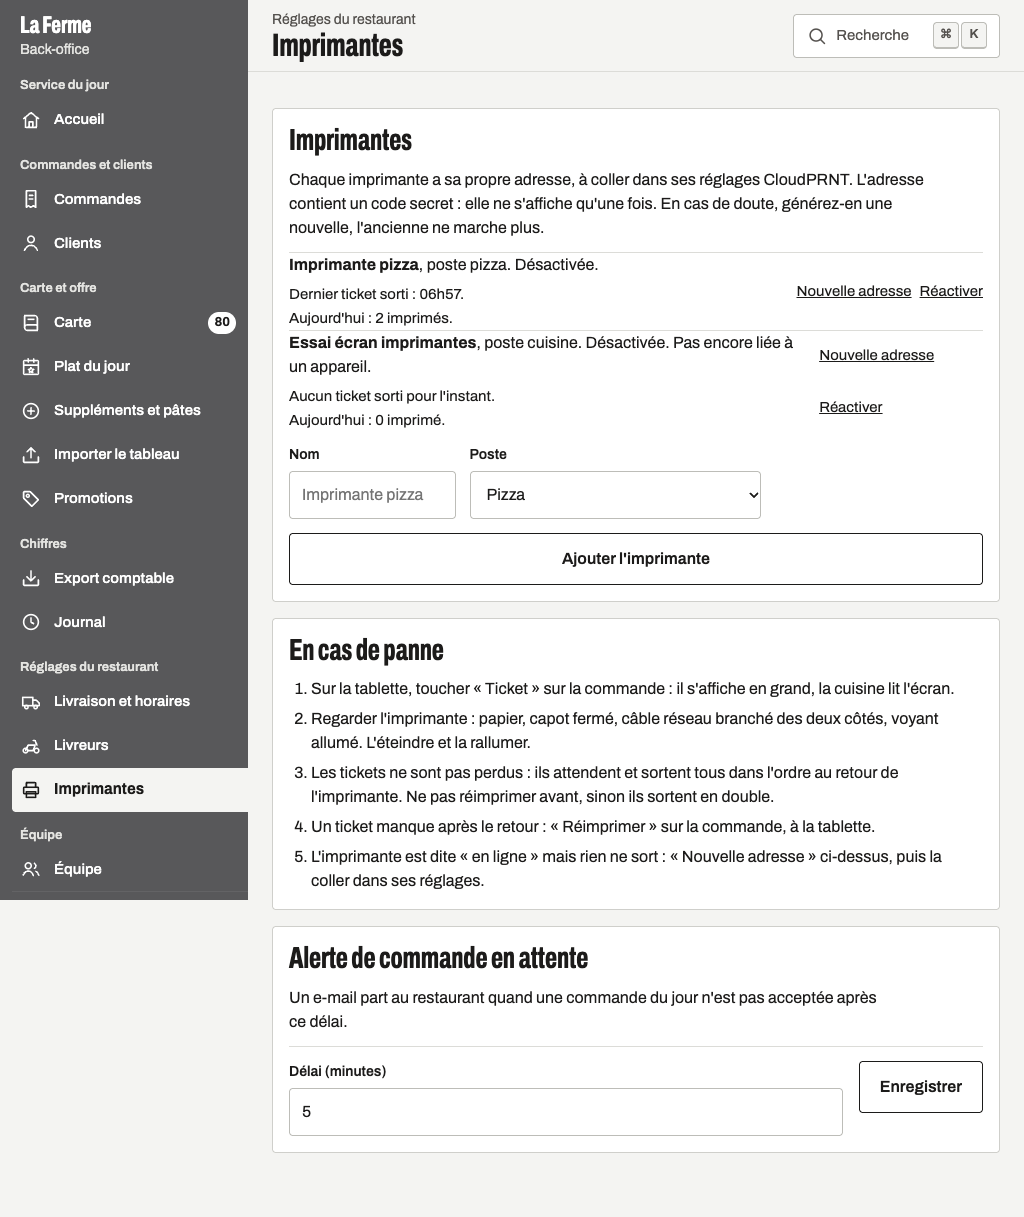
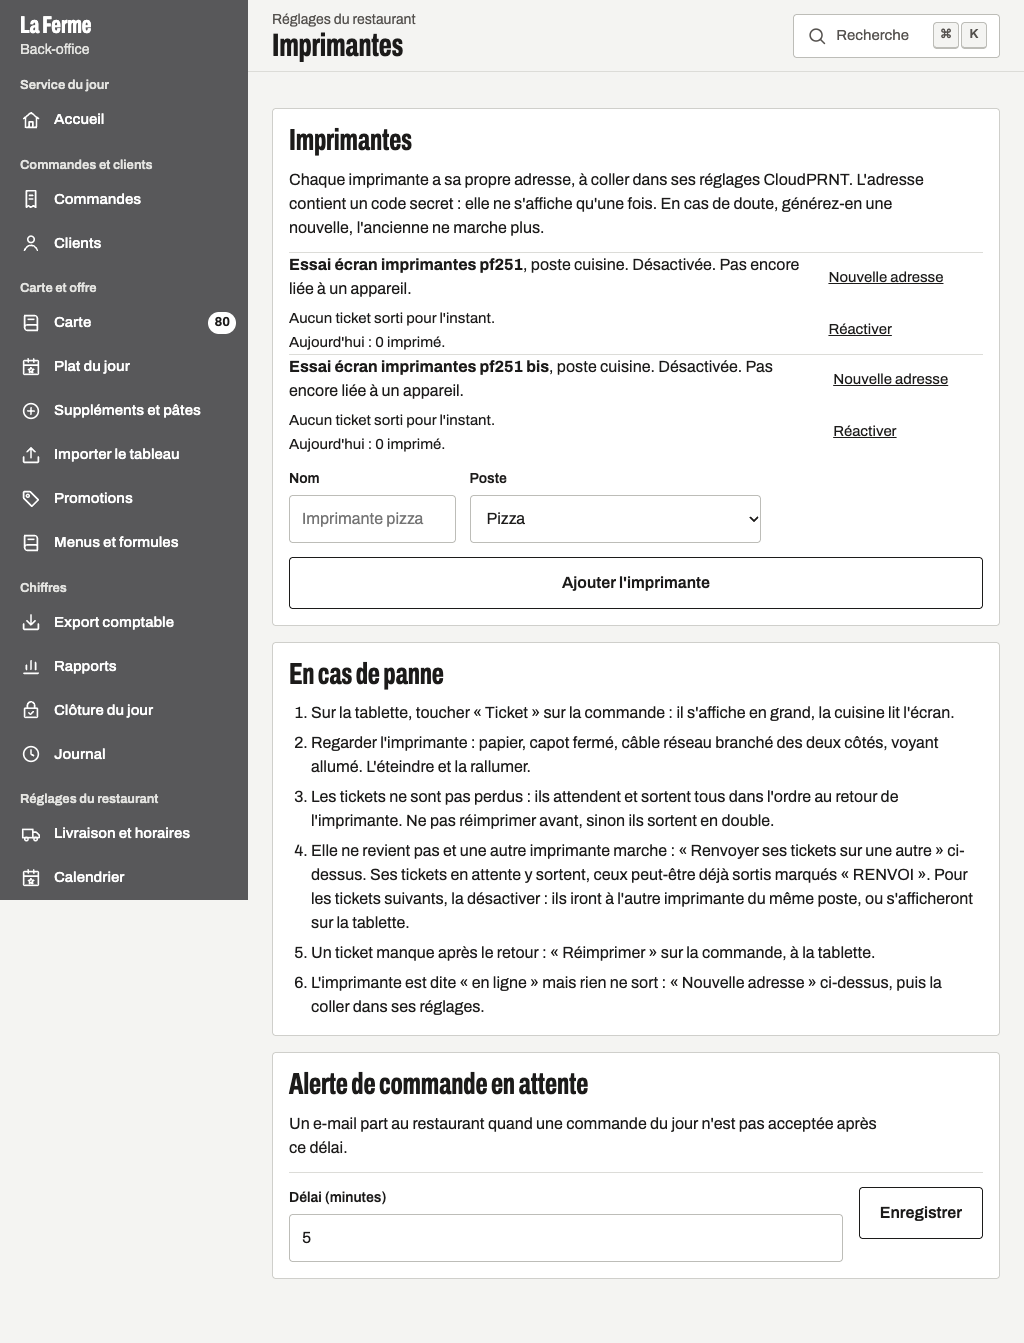
Imprimantes : renvoyer les tickets d'une imprimante en panne sur une autre
Ses tickets en attente, envoyés sans confirmation (marqués RENVOI) ou en échec,
pour les commandes encore à préparer, partent sur l'imprimante choisie. Jamais
les tickets de test. Gérant, journalisé. « En cas de panne » dit quoi faire
pour les tickets suivants.

diff --git a/tests/unit/renvoyer-tickets-sql.test.ts b/tests/unit/renvoyer-tickets-sql.test.ts
@@ -1,0 +1,103 @@
+import type { PGlite } from "@electric-sql/pglite";
+import { beforeAll, beforeEach, describe, expect, it } from "vitest";
+import { creerBaseLocale } from "@/lib/db/locale";
+
+// Renvoyer les tickets d'une imprimante en panne sur une autre (vague 3, bo-operations) :
+// renvoyer_tickets, migration 20261130250000_renvoyer_tickets.sql.
+
+let db: PGlite;
+let pizza: number;
+let cuisine: number;
+let eteinte: number;
+let gerant: string;
+let service: string;
+let n = 0;
+
+async function commande(statut: string): Promise<string> {
+  n += 1;
+  const p = {
+    jeton_suivi: `jeton-rt-${n}`,
+    cle_idempotence: `rt-${n}`,
+    mode: "retrait",
+    statut: "nouvelle",
+    statut_paiement: "a_encaisser_retrait",
+    moyen_paiement: "comptoir",
+    zone_numero: null,
+    client_prenom: `Rt${n}`,
+    client_nom: "Test",
+    client_telephone: "079 000 00 00",
+    client_email: "rt@laferme.test",
+    quand_type: "asap",
+    pizzas_seulement: true,
+    sous_total_centimes: 1500,
+    frais_centimes: 0,
+    total_centimes: 1500,
+    tva_centimes: 38,
+    taux_tva_pourcent: 2.6,
+    origine: "http://localhost:3000",
+    lignes: [{ slug: "pizza-margherita", nom: "Pizza", station: "pizza", qte: 1, unitaire_centimes: 1500, total_centimes: 1500, choix: {}, retraits: [], note: "" }],
+  };
+  const id = (await db.query<{ id: string }>("select id from creer_commande($1)", [p])).rows[0].id;
+  await db.query("update commandes set statut = $2 where id = $1", [id, statut]);
+  return id;
+}
+async function tache(commandeId: string | null, etat: string, essai = false): Promise<string> {
+  const r = await db.query<{ id: string }>(
+    "insert into taches_impression (commande_id, essai, station, imprimante_id, contenu, etat) values ($1, $2, 'pizza', $3, '[]', $4) returning id",
+    [commandeId, essai, pizza, etat],
+  );
+  return r.rows[0].id;
+}
+const ou = async (id: string) =>
+  (await db.query<{ imprimante_id: number; etat: string; relance: boolean }>("select imprimante_id, etat, relance from taches_impression where id = $1", [id])).rows[0];
+const renvoyer = async (de: number, vers: number, qui = gerant) =>
+  (await db.query<{ n: number }>("select renvoyer_tickets($1::smallint, $2::smallint, $3) as n", [de, vers, qui])).rows[0].n;
+
+beforeAll(async () => {
+  db = await creerBaseLocale();
+  pizza = (await db.query<{ id: number }>("insert into imprimantes (nom, station, jeton_hache) values ('Pizza rt', 'pizza', 'h-rt-p') returning id")).rows[0].id;
+  cuisine = (await db.query<{ id: number }>("insert into imprimantes (nom, station, jeton_hache) values ('Cuisine rt', 'cuisine', 'h-rt-c') returning id")).rows[0].id;
+  eteinte = (await db.query<{ id: number }>("insert into imprimantes (nom, station, jeton_hache, actif) values ('Éteinte rt', 'cuisine', 'h-rt-e', false) returning id")).rows[0].id;
+  gerant = (await db.query<{ id: string }>("insert into personnel (email, nom, role) values ('rt-gerant@laferme.test', 'Rt gérant', 'gerant') returning id")).rows[0].id;
+  service = (await db.query<{ id: string }>("insert into personnel (email, nom, role) values ('rt-service@laferme.test', 'Rt service', 'service') returning id")).rows[0].id;
+}, 120_000);
+
+beforeEach(async () => {
+  await db.exec("truncate commandes cascade; delete from taches_impression where true;");
+});
+
+describe("renvoyer_tickets", () => {
+  it("en attente, envoyé (marqué RENVOI) et en échec partent ; sorti, annulé, commande prête et essai restent", async () => {
+    const encours = await commande("acceptee");
+    const attente = await tache(encours, "en_attente");
+    const envoyee = await tache(encours, "envoyee");
+    const echec = await tache(encours, "echec");
+    const sortie = await tache(encours, "imprimee");
+    const annulee = await tache(encours, "annulee");
+    const pourPrete = await tache(await commande("prete"), "en_attente");
+    const essai = await tache(null, "en_attente", true);
+    expect(await renvoyer(pizza, cuisine)).toBe(3);
+    expect(await ou(attente)).toEqual({ imprimante_id: cuisine, etat: "en_attente", relance: false });
+    expect(await ou(envoyee)).toEqual({ imprimante_id: cuisine, etat: "en_attente", relance: true });
+    expect(await ou(echec)).toEqual({ imprimante_id: cuisine, etat: "en_attente", relance: false });
+    for (const id of [sortie, annulee, pourPrete, essai]) expect((await ou(id)).imprimante_id).toBe(pizza);
+    const j = await db.query<{ cle: string; apres: { tickets: number; nom: string } }>("select cle, apres from journal_gestion where objet = 'imprimante' order by id desc limit 1");
+    expect(j.rows[0]).toMatchObject({ cle: "renvoyer_tickets", apres: { tickets: 3, nom: "Cuisine rt" } });
+  });
+
+  it("refus : même imprimante, destination désactivée ou inconnue, pas gérant", async () => {
+    await tache(await commande("acceptee"), "en_attente");
+    await expect(renvoyer(pizza, pizza)).rejects.toThrow(/autre imprimante/);
+    await expect(renvoyer(pizza, eteinte)).rejects.toThrow(/désactivée/);
+    await expect(renvoyer(pizza, 999)).rejects.toThrow(/désactivée/);
+    await expect(renvoyer(999, cuisine)).rejects.toThrow(/inconnue/);
+    await expect(renvoyer(pizza, cuisine, service)).rejects.toThrow();
+  });
+
+  it("réservée au serveur", async () => {
+    for (const role of ["anon", "authenticated"]) {
+      const r = await db.query<{ ok: boolean }>("select has_function_privilege($1, 'renvoyer_tickets(smallint, smallint, uuid)', 'execute') as ok", [role]);
+      expect(r.rows[0].ok).toBe(false);
+    }
+  });
+});

diff --git a/src/components/gestion/GestionImprimantes.tsx b/src/components/gestion/GestionImprimantes.tsx
@@ -46,6 +46,25 @@ export function GestionImprimantes() {
   const [message, setMessage] = useState<string | null>(null);
   // Confirmation avant un geste qui arrête une imprimante (audit du gérant, G10).
   const [confirmer, setConfirmer] = useState<{ id: number; geste: "jeton" | "actif" } | null>(null);
+  // Imprimante en panne : ses tickets en attente partent sur une autre (vague 3, P1 de produit-gestion).
+  const [renvoi, setRenvoi] = useState<{ id: number; vers: string } | null>(null);
+
+  async function renvoyer(de: Imprimante) {
+    if (!renvoi || !d) return;
+    const vers = d.imprimantes.find((x) => String(x.id) === renvoi.vers);
+    if (!vers) return;
+    setMessage(null);
+    const r = await poster("/api/gestion/imprimantes", { type: "renvoyer", id: de.id, vers: vers.id });
+    if (!r.ok) return setMessage(String(r.donnees.erreur ?? "Pas enregistré."));
+    const n = Number(r.donnees.tickets ?? 0);
+    setRenvoi(null);
+    setMessage(
+      n === 0
+        ? `Aucun ticket à renvoyer : ${de.nom} n'avait rien en attente pour une commande en cours.`
+        : `${n} ticket${n > 1 ? "s" : ""} de ${de.nom} renvoyé${n > 1 ? "s" : ""} sur ${vers.nom}. Les prochains tickets vont encore à ${de.nom} tant qu'elle est active : désactivez-la s'il le faut.`,
+    );
+    await charger();
+  }
 
   const charger = useCallback(async () => {
     const rep = await fetch("/api/gestion/imprimantes", { cache: "no-store" });
@@ -114,7 +133,29 @@ export function GestionImprimantes() {
                     </span>
                   )}
                 </span>
-                {confirmer?.id === i.id ? (
+                {renvoi?.id === i.id ? (
+                  <span className="ges-confirmer" role="group" aria-label={`Renvoyer les tickets de ${i.nom}`}>
+                    <label htmlFor={`${ids}-renvoi-${i.id}`}>Renvoyer ses tickets en attente sur</label>
+                    <select id={`${ids}-renvoi-${i.id}`} value={renvoi.vers} onChange={(e) => setRenvoi({ id: i.id, vers: e.target.value })}>
+                      {d.imprimantes
+                        .filter((x) => x.actif && x.id !== i.id)
+                        .map((x) => (
+                          <option key={x.id} value={String(x.id)}>
+                            {x.nom}, poste {x.station}
+                            {x.en_ligne ? "" : " (hors ligne)"}
+                          </option>
+                        ))}
+                    </select>
+                    <span className="boutons-ligne">
+                      <button type="button" className="bouton-second" onClick={() => renvoyer(i)}>
+                        Renvoyer les tickets
+                      </button>
+                      <button type="button" className="lien" onClick={() => setRenvoi(null)}>
+                        Garder
+                      </button>
+                    </span>
+                  </span>
+                ) : confirmer?.id === i.id ? (
                   <span className="ges-confirmer" role="alert">
                     <span>
                       {confirmer.geste === "jeton"
@@ -154,6 +195,18 @@ export function GestionImprimantes() {
                         }
                       >
                         Imprimer un ticket de test
+                      </button>
+                    )}
+                    {d.imprimantes.some((x) => x.actif && x.id !== i.id) && (
+                      <button
+                        type="button"
+                        className="lien"
+                        onClick={() => {
+                          setConfirmer(null);
+                          setRenvoi({ id: i.id, vers: String(d.imprimantes.find((x) => x.actif && x.id !== i.id)!.id) });
+                        }}
+                      >
+                        Renvoyer ses tickets sur une autre
                       </button>
                     )}
                     <button type="button" className="lien" onClick={() => setConfirmer({ id: i.id, geste: "jeton" })}>
@@ -203,6 +256,11 @@ export function GestionImprimantes() {
           <li>
             Les tickets ne sont pas perdus : ils attendent et sortent tous dans l&apos;ordre au retour de l&apos;imprimante. Ne pas réimprimer avant, sinon ils
             sortent en double.
+          </li>
+          <li>
+            Elle ne revient pas et une autre imprimante marche : « Renvoyer ses tickets sur une autre » ci-dessus. Ses tickets en attente y sortent, ceux
+            peut-être déjà sortis marqués « RENVOI ». Pour les tickets suivants, la désactiver : ils iront à l&apos;autre imprimante du même poste, ou
+            s&apos;afficheront sur la tablette.
           </li>
           <li>Un ticket manque après le retour : « Réimprimer » sur la commande, à la tablette.</li>
           <li>L&apos;imprimante est dite « en ligne » mais rien ne sort : « Nouvelle adresse » ci-dessus, puis la coller dans ses réglages.</li>

diff --git a/tests/e2e/gestion-imprimantes.spec.ts b/tests/e2e/gestion-imprimantes.spec.ts
@@ -25,6 +25,8 @@ test("imprimantes : dernier ticket, conduite en cas de panne, axe", async ({ pag
   await page.setViewportSize({ width: 1024, height: 900 });
   await connecter(page, "ecran-imprimantes@laferme.test");
   let id: number | null = null;
+  let id2: number | null = null;
+  const NOM2 = `${NOM} bis`;
   try {
     // Une imprimante désactivée ne reçoit pas de ticket : on l'ajoute, on lui envoie un ticket de test (jamais
     // connectée, il reste en attente), puis on la désactive aussitôt.
@@ -34,13 +36,28 @@ test("imprimantes : dernier ticket, conduite en cas de panne, axe", async ({ pag
     await expect(page.getByText("Adresse CloudPRNT, à copier maintenant :")).toBeVisible();
     const liste = (await (await page.request.get("/api/gestion/imprimantes")).json()).imprimantes as { id: number; nom: string }[];
     id = liste.find((i) => i.nom === NOM)!.id;
-    const ligne = page.locator("li", { hasText: NOM });
+    // Nom exact : « … bis », la seconde imprimante, contient le premier.
+    const ligne = page.locator("li").filter({ has: page.getByText(NOM, { exact: true }) });
     await ligne.getByRole("button", { name: "Imprimer un ticket de test" }).click();
     await expect(page.getByText(`Ticket de test envoyé à ${NOM}, hors ligne pour le moment : il sortira à sa reconnexion.`)).toBeVisible();
     // Rechargée : l'adresse CloudPRNT (et son jeton) ne s'affiche plus, la capture n'en garde rien.
     await page.reload();
     await expect(ligne.getByText(/^1 ticket en attente depuis /)).toBeVisible();
     await page.screenshot({ path: `${CAPTURES}/imprimantes-ticket-test-1024.png` });
+
+    // Renvoyer ses tickets sur une autre : une seconde imprimante (ajoutée par la route, son adresse n'est pas
+    // affichée). Le ticket de test ne part jamais ailleurs : rien à renvoyer.
+    expect((await page.request.post("/api/gestion/imprimantes", { headers: ORIGINE, data: { type: "ajouter", nom: NOM2, station: "cuisine" } })).ok()).toBe(true);
+    id2 = ((await (await page.request.get("/api/gestion/imprimantes")).json()).imprimantes as { id: number; nom: string }[]).find((i) => i.nom === NOM2)!.id;
+    await page.reload();
+    await ligne.getByRole("button", { name: "Renvoyer ses tickets sur une autre" }).click();
+    await ligne.getByLabel("Renvoyer ses tickets en attente sur").selectOption({ label: `${NOM2}, poste cuisine (hors ligne)` });
+    await expect(ligne.getByRole("button", { name: "Renvoyer les tickets" })).toBeVisible();
+    await page.screenshot({ path: `${CAPTURES}/imprimantes-renvoyer-1024.png` });
+    await ligne.getByRole("button", { name: "Renvoyer les tickets" }).click();
+    await expect(page.getByText(`Aucun ticket à renvoyer : ${NOM} n'avait rien en attente pour une commande en cours.`)).toBeVisible();
+    await page.request.post("/api/gestion/imprimantes", { headers: ORIGINE, data: { type: "actif", id: id2, actif: false } });
+
     await page.request.post("/api/gestion/imprimantes", { headers: ORIGINE, data: { type: "actif", id, actif: false } });
     await page.reload();
     await expect(ligne.getByText("Aucun ticket sorti pour l'instant.")).toBeVisible();
@@ -55,6 +72,6 @@ test("imprimantes : dernier ticket, conduite en cas de panne, axe", async ({ pag
     expect(axe.violations.map((v) => `${v.id} : ${v.nodes.length}`)).toEqual([]);
     await page.screenshot({ path: `${CAPTURES}/imprimantes-1024.png`, fullPage: true });
   } finally {
-    if (id !== null) await page.request.post("/api/gestion/imprimantes", { headers: ORIGINE, data: { type: "actif", id, actif: false } });
+    for (const x of [id, id2]) if (x !== null) await page.request.post("/api/gestion/imprimantes", { headers: ORIGINE, data: { type: "actif", id: x, actif: false } });
   }
 });

diff --git a/src/app/api/gestion/imprimantes/route.ts b/src/app/api/gestion/imprimantes/route.ts
@@ -35,7 +35,7 @@ export async function GET(requete: Request) {
 }
 
 // { type: "ajouter", nom, station } | { type: "jeton", id } | { type: "actif", id, actif } | { type: "alerte", minutes }
-// | { type: "test", id } (ticket de test, vague 3)
+// | { type: "test", id } (ticket de test, vague 3) | { type: "renvoyer", id, vers } (tickets sur une autre, vague 3)
 export async function POST(requete: Request) {
   const g = await exigerGerant(requete);
   if ("reponse" in g) return g.reponse;
@@ -72,6 +72,22 @@ export async function POST(requete: Request) {
     // Base revérifie le gérant et l'imprimante active, et journalise (ticket_de_test, session tablette).
     const r = await imprimerTicketTest(id, g.personnel);
     return r.ok ? NextResponse.json({ enregistre: true, tache: r.tache }, { headers: { "Cache-Control": "no-store" } }) : refus(r.erreur);
+  }
+  if (c.type === "renvoyer") {
+    // Imprimante en panne : ses tickets en attente partent sur une autre (vague 3). Base : renvoyer_tickets,
+    // gérant revérifié et journalisé.
+    const vers = Number.isInteger(c.vers) && (c.vers as number) > 0 && (c.vers as number) < 1000 ? (c.vers as number) : null;
+    if (!id || !vers) return refus("Imprimante inconnue.", 404);
+    try {
+      const n = await fonctionSql<number>("renvoyer_tickets", { p_de: id, p_vers: vers, p_personnel: qui });
+      return NextResponse.json({ enregistre: true, tickets: n }, { headers: { "Cache-Control": "no-store" } });
+    } catch (e) {
+      const m = e instanceof Error ? e.message : "";
+      if (/autre imprimante/.test(m)) return refus("Choisissez une autre imprimante.");
+      if (/désactivée/.test(m)) return refus("L'imprimante choisie est désactivée : réactivez-la ou choisissez-en une autre.");
+      if (/inconnue/.test(m)) return refus("Imprimante inconnue.", 404);
+      throw e;
+    }
   }
   if (c.type === "alerte") {
     if (!Number.isInteger(c.minutes) || (c.minutes as number) < 2 || (c.minutes as number) > 60) return refus("Délai entre 2 et 60 minutes.");

diff --git a/src/components/gestion/imprimantes.css b/src/components/gestion/imprimantes.css
@@ -17,3 +17,9 @@
   margin: 0;
   padding-left: 22px;
 }
+/* Renvoyer ses tickets sur une autre : choix de l'imprimante, cible tactile pleine. */
+.ges-confirmer select {
+  min-height: var(--bo-cible);
+  padding: 0 8px;
+  font: inherit;
+}

diff --git a/docs/imprimantes-gestion.md b/docs/imprimantes-gestion.md
@@ -19,3 +19,13 @@ En plus de l'état en direct (en ligne, papier, capot), le back-office donne pou
 - **En cas de panne** : un bloc de l'écran reprend les cinq gestes de `docs/pannes.md`, « L'imprimante ne sort rien ». Captures : `docs/rendus/vague-3/bo-operations/imprimantes-1024.png`.
 
 Avant la migration, `resume` vaut null et l'écran garde l'état en direct seul.
+
+## Renvoyer ses tickets sur une autre
+
+Une imprimante en panne (plus de papier, ne répond plus) : « Renvoyer ses tickets sur une autre », sur sa ligne, puis le choix de l'imprimante de destination. Ses tickets en attente, envoyés sans confirmation ou en échec partent sur l'autre. P1 de `produit-gestion`. Migration `20261130250000_renvoyer_tickets.sql`, route `/api/gestion/imprimantes` `{ type: "renvoyer", id, vers }` (gérant, journalisé).
+
+- **Ce qui part** : seulement les tickets des commandes encore à préparer (acceptées ou en préparation). Un ticket déjà envoyé, donc peut-être sorti, repart marqué « RENVOI : CE TICKET EST PEUT-ÊTRE DÉJÀ SORTI ». Un ticket garde son poste : un ticket pizza sorti en cuisine dit toujours PIZZA.
+- **Ce qui reste** : les tickets sortis ou annulés, ceux des commandes prêtes et les tickets de test (ils ne changent jamais d'imprimante).
+- **Les tickets suivants** vont encore à l'imprimante en panne tant qu'elle est active. La désactiver les envoie à l'autre imprimante du même poste, ou sur la tablette. L'écran le rappelle, comme « En cas de panne ».
+- Tests : `tests/unit/renvoyer-tickets-sql.test.ts`, `tests/e2e/gestion-imprimantes.spec.ts`. Capture : `docs/rendus/vague-3/bo-operations/imprimantes-renvoyer-1024.png`.
+
